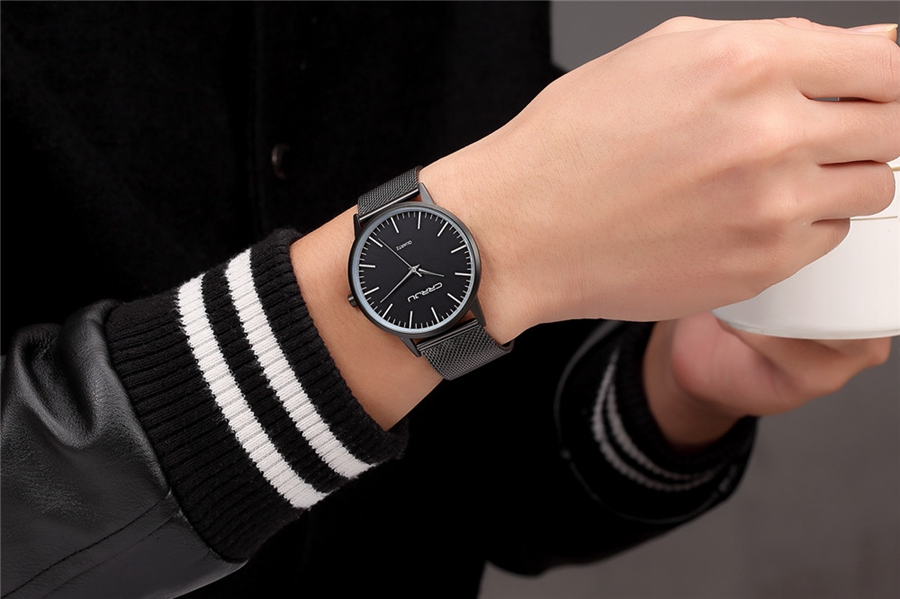
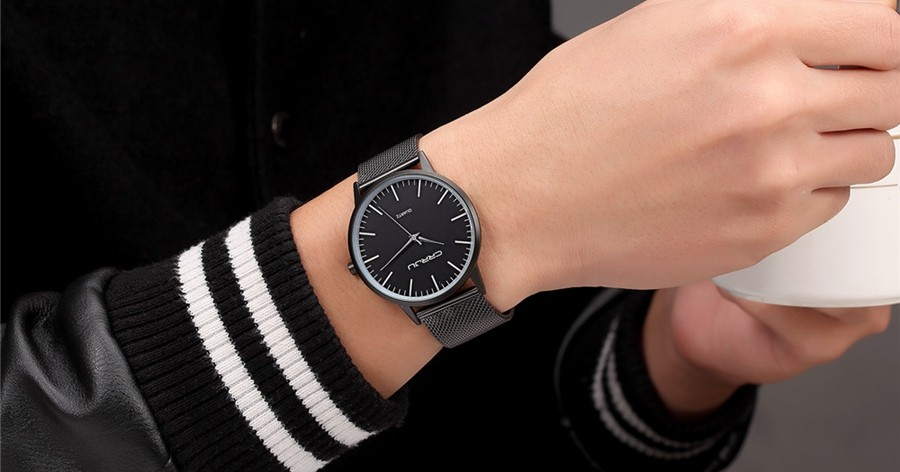
description

diff --git a/index.html b/index.html
@@ -57,38 +57,38 @@
   
     <div class="mySlides fade">
         <div class="numbertext">3 / 8</div>
-            <img src="img3.jpg" style="width:100%">
-        <div class="text">Found in</div>
+            <img src="homeSmart.jpg" style="width:100%">
+        <div class="text">Found in Smart</div>
     </div>
 
     <div class="mySlides fade">
         <div class="numbertext">4 / 8</div>
-            <img src="img3.jpg" style="width:100%">
-        <div class="text">Found in</div>
+            <img src="homeSport.jpg" style="width:100%">
+        <div class="text">Found in Sport</div>
     </div>
 
     <div class="mySlides fade">
         <div class="numbertext">5 / 8</div>
-            <img src="img3.jpg" style="width:100%">
-        <div class="text">Found in</div>
+            <img src="homeSmart2.jpg" style="width:100%">
+        <div class="text">Found in Smart</div>
     </div>
 
     <div class="mySlides fade">
         <div class="numbertext">6 / 8</div>
-            <img src="img3.jpg" style="width:100%">
-        <div class="text">Found in</div>
+            <img src="homeCasual1.jpg" style="width:100%">
+        <div class="text">Found in Casual</div>
     </div>
 
     <div class="mySlides fade">
         <div class="numbertext">7 / 8</div>
-            <img src="img3.jpg" style="width:100%">
-        <div class="text">Found in</div>
+            <img src="homeClassy2.jpg" style="width:100%">
+        <div class="text">Found in Classy</div>
     </div>
 
     <div class="mySlides fade">
         <div class="numbertext">8 / 8</div>
-            <img src="img3.jpg" style="width:100%">
-        <div class="text">Found in</div>
+            <img src="homeSmart3.jpg" style="width:100%">
+        <div class="text">Found in Smart</div>
     </div>
 
   
@@ -103,7 +103,21 @@
         <span class="dot" onclick="currentSlide(1)"></span>
         <span class="dot" onclick="currentSlide(2)"></span>
         <span class="dot" onclick="currentSlide(3)"></span>
+        <span class="dot" onclick="currentSlide(4)"></span>
+        <span class="dot" onclick="currentSlide(5)"></span>
+        <span class="dot" onclick="currentSlide(6)"></span>
+        <span class="dot" onclick="currentSlide(7)"></span>
+        <span class="dot" onclick="currentSlide(8)"></span>
   </div>
+
+  <div>
+      <section id="homeText">
+          <h2>Watches</h2>
+          <p></p>
+      </section>
+  </div>
+</body>
+<body id="">
 
 </body>
 </html>

diff --git a/styles1.css b/styles1.css
@@ -89,7 +89,7 @@ section#navicon{
 
 /* Slideshow container */
 .slideshow-container {
-  max-width: 1000px;
+  max-width: 700px;
   position: relative;
   margin: auto;
 }
@@ -180,3 +180,10 @@ section#navicon{
   to {opacity: 1}
 }
 
+/* discription */
+section#homeText{
+  display: block;
+  margin-left: auto;
+  width: 50%;
+
+}
